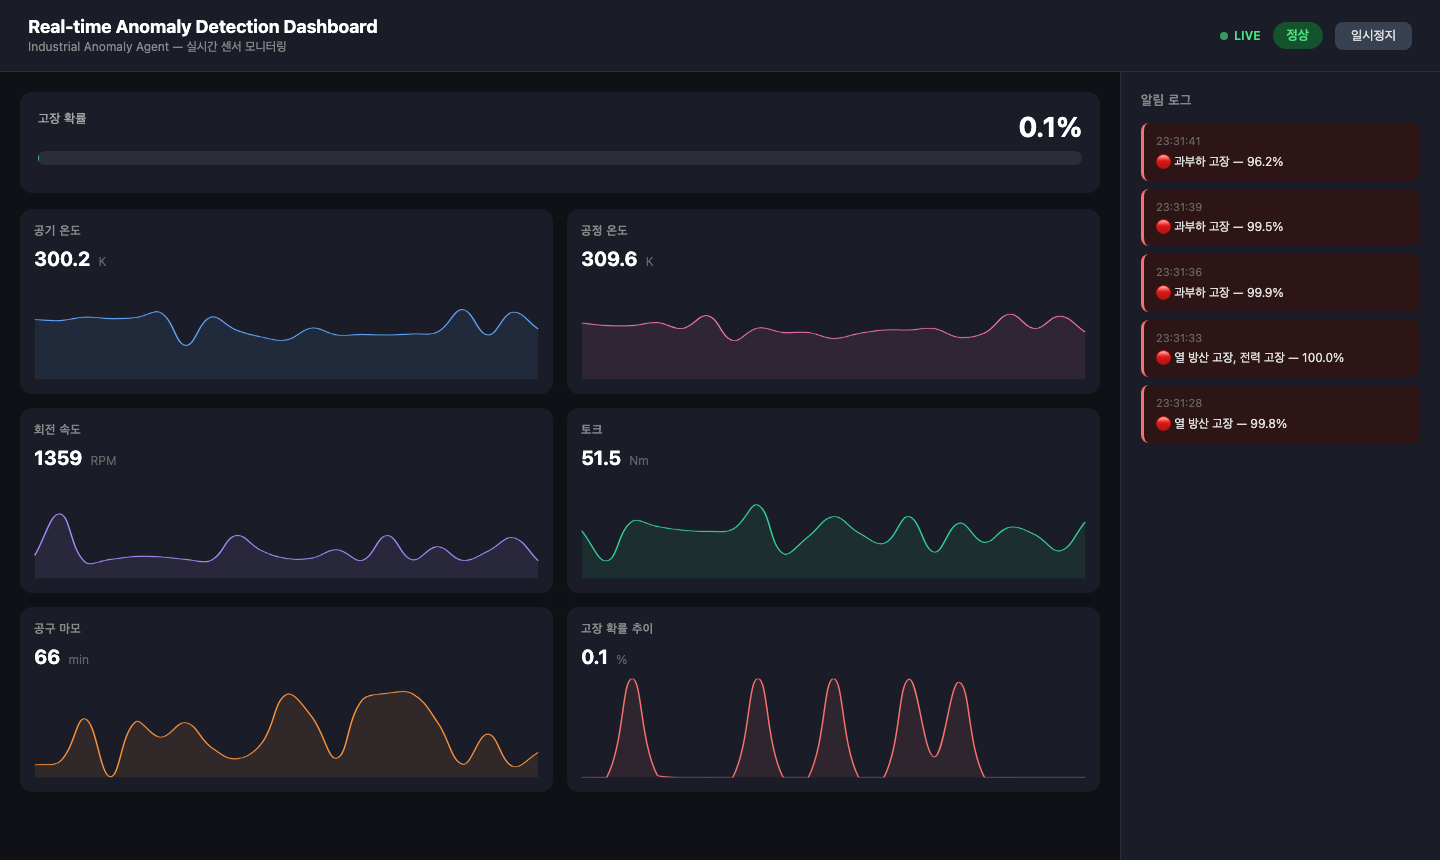
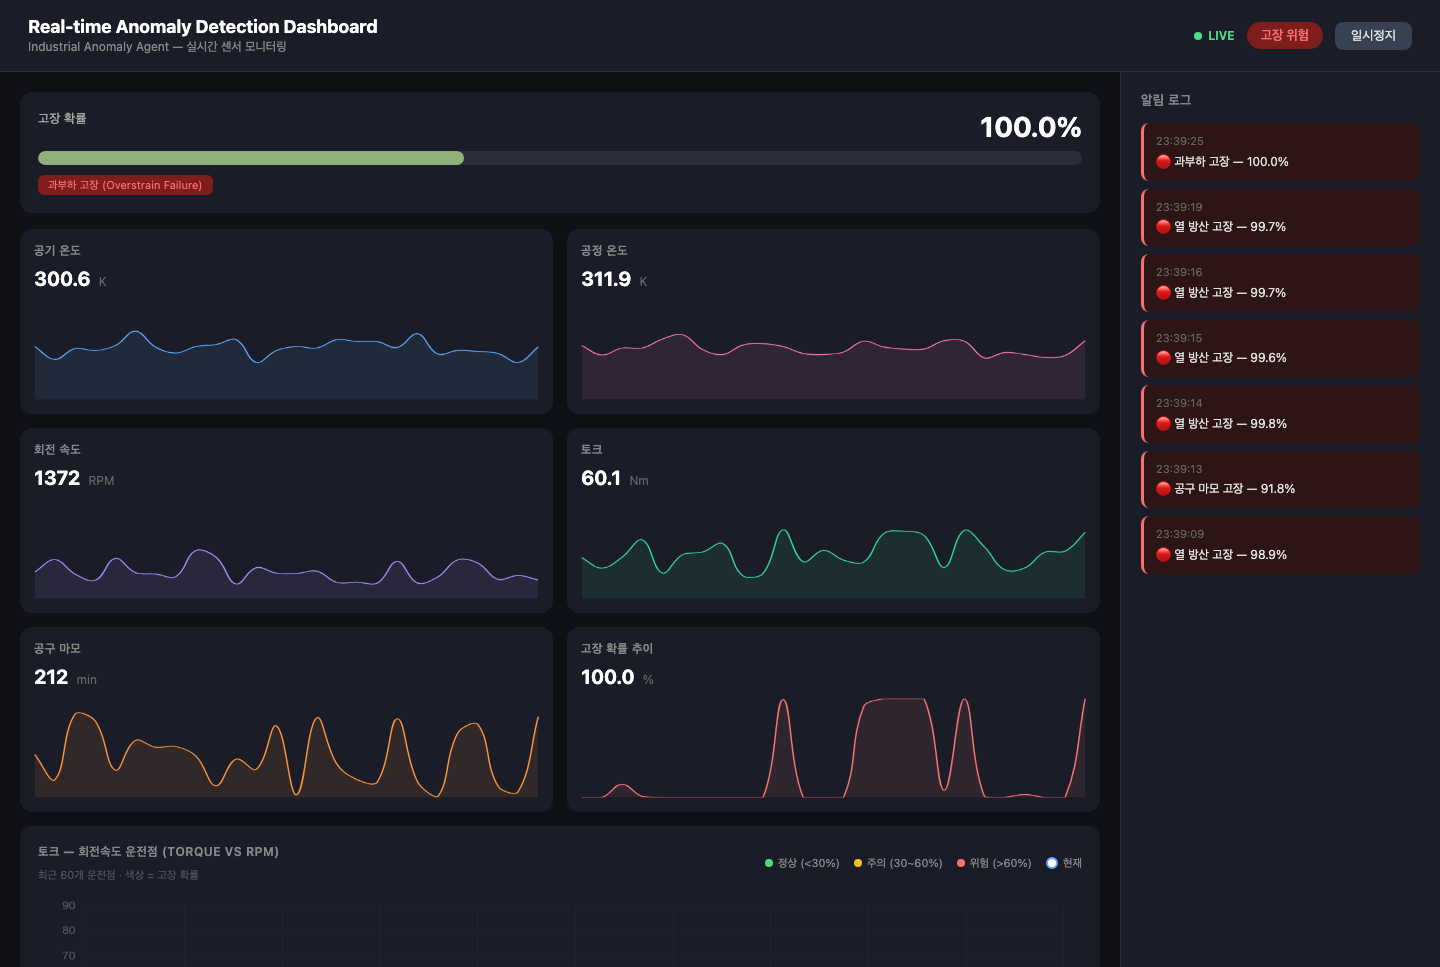
Add Torque-RPM scatter plot to real-time dashboard

diff --git a/app/static/dashboard.html b/app/static/dashboard.html
@@ -40,6 +40,12 @@
     .charts-grid { display: grid; grid-template-columns: 1fr 1fr; gap: 14px; }
     .chart-card { background: #1a1d27; border-radius: 12px; padding: 14px; }
     .chart-card canvas { height: 100px !important; width: 100% !important; }
+    .scatter-card { background: #1a1d27; border-radius: 12px; padding: 18px; margin-top: 14px; }
+    .scatter-card canvas { height: 280px !important; width: 100% !important; }
+    .scatter-header { display: flex; justify-content: space-between; align-items: center; margin-bottom: 12px; }
+    .scatter-legend { display: flex; gap: 14px; font-size: 11px; color: #888; }
+    .scatter-legend span { display: flex; align-items: center; gap: 5px; }
+    .dot { width: 8px; height: 8px; border-radius: 50%; display: inline-block; }
     .chart-title { font-size: 12px; color: #888; margin-bottom: 8px; font-weight: 600; text-transform: uppercase; letter-spacing: 0.5px; }
     .chart-val { font-size: 20px; font-weight: 700; color: #fff; margin-bottom: 10px; }
     .chart-val span { font-size: 12px; color: #666; font-weight: 400; margin-left: 4px; }
@@ -118,6 +124,22 @@
         <canvas id="chart-prob" height="80"></canvas>
       </div>
     </div>
+
+    <div class="scatter-card">
+      <div class="scatter-header">
+        <div>
+          <div class="chart-title">토크 — 회전속도 운전점 (Torque vs RPM)</div>
+          <div style="font-size:11px;color:#555;margin-top:3px;">최근 60개 운전점 · 색상 = 고장 확률</div>
+        </div>
+        <div class="scatter-legend">
+          <span><i class="dot" style="background:#4ade80"></i>정상 (&lt;30%)</span>
+          <span><i class="dot" style="background:#fbbf24"></i>주의 (30~60%)</span>
+          <span><i class="dot" style="background:#f87171"></i>위험 (&gt;60%)</span>
+          <span><i class="dot" style="background:#fff;width:12px;height:12px;border:2px solid #60a5fa"></i>현재</span>
+        </div>
+      </div>
+      <canvas id="chart-scatter"></canvas>
+    </div>
   </div>
 
   <div class="sidebar">
@@ -128,6 +150,7 @@
 
 <script>
   const MAX_POINTS = 40;
+  const MAX_SCATTER = 60;
   const chartConfig = (color, ymin, ymax) => ({
     type: "line",
     data: { labels: [], datasets: [{ data: [], borderColor: color, borderWidth: 1.5, pointRadius: 0, tension: 0.4, fill: true, backgroundColor: color + "18" }] },
@@ -151,6 +174,66 @@
       chart.data.datasets[0].data.shift();
     }
     chart.update();
+  }
+
+  // Scatter chart: 히스토리 점 + 현재 점
+  const scatterHistory = { data: [], colors: [], radii: [] };
+  const scatterChart = new Chart(document.getElementById("chart-scatter"), {
+    type: "scatter",
+    data: {
+      datasets: [
+        {
+          label: "운전점",
+          data: [],
+          backgroundColor: [],
+          pointRadius: [],
+          pointHoverRadius: 8,
+        },
+        {
+          label: "현재",
+          data: [],
+          backgroundColor: "rgba(255,255,255,0.95)",
+          borderColor: "#60a5fa",
+          borderWidth: 2,
+          pointRadius: 10,
+          pointHoverRadius: 12,
+        }
+      ]
+    },
+    options: {
+      animation: false,
+      plugins: { legend: { display: false },
+        tooltip: { callbacks: {
+          label: (ctx) => {
+            if (ctx.datasetIndex === 0) return `RPM: ${Math.round(ctx.parsed.x)}  Torque: ${ctx.parsed.y.toFixed(1)} Nm`;
+            return `현재 — RPM: ${Math.round(ctx.parsed.x)}  Torque: ${ctx.parsed.y.toFixed(1)} Nm`;
+          }
+        }}
+      },
+      scales: {
+        x: { min: 1000, max: 3000, title: { display: true, text: "회전 속도 (RPM)", color: "#666", font: { size: 11 } }, ticks: { color: "#555" }, grid: { color: "#1f2232" } },
+        y: { min: 0,    max: 90,   title: { display: true, text: "토크 (Nm)",       color: "#666", font: { size: 11 } }, ticks: { color: "#555" }, grid: { color: "#1f2232" } },
+      },
+      responsive: true,
+      maintainAspectRatio: false,
+    }
+  });
+
+  function updateScatter(rpm, torque, prob) {
+    const color = prob >= 60 ? "#f87171cc" : prob >= 30 ? "#fbbf24cc" : "#4ade80cc";
+    scatterHistory.data.push({ x: rpm, y: torque });
+    scatterHistory.colors.push(color);
+    scatterHistory.radii.push(5);
+    if (scatterHistory.data.length > MAX_SCATTER) {
+      scatterHistory.data.shift();
+      scatterHistory.colors.shift();
+      scatterHistory.radii.shift();
+    }
+    scatterChart.data.datasets[0].data = [...scatterHistory.data];
+    scatterChart.data.datasets[0].backgroundColor = [...scatterHistory.colors];
+    scatterChart.data.datasets[0].pointRadius = [...scatterHistory.radii];
+    scatterChart.data.datasets[1].data = [{ x: rpm, y: torque }];
+    scatterChart.update();
   }
 
   let ws, paused = false;
@@ -180,6 +263,7 @@
       pushData(charts.torque,  ts, s.torque);
       pushData(charts.wear,    ts, s.tool_wear);
       pushData(charts.prob,    ts, prob);
+      updateScatter(s.rotational_speed, s.torque, prob);
 
       // 확률 바
       document.getElementById("prob-value").textContent = prob.toFixed(1) + "%";

diff --git a/README.md b/README.md
@@ -9,6 +9,9 @@
 ### 실시간 이상 감지 대시보드 (`/dashboard`)
 ![dashboard](assets/screenshot_dashboard.png)
 
+### 토크-RPM 운전점 산점도
+![scatter](assets/screenshot_scatter.png)
+
 ### 단건 예측 (`/`)
 | 입력 화면 | 분석 결과 |
 |-----------|-----------|
@@ -28,6 +31,7 @@
 - 5종 고장 유형 감지 (TWF, HDF, PWF, OSF, RNF)
 - GPT-4o-mini 기반 한국어 상황 분석 및 조치 권고
 - **실시간 WebSocket 스트리밍 대시보드** (1초 간격, 6개 센서 라이브 차트 + 알림 로그)
+- **토크-RPM 운전점 산점도** (정상/주의/위험 색상 구분, 현재 운전점 실시간 표시)
 
 ## 실행 방법
 
